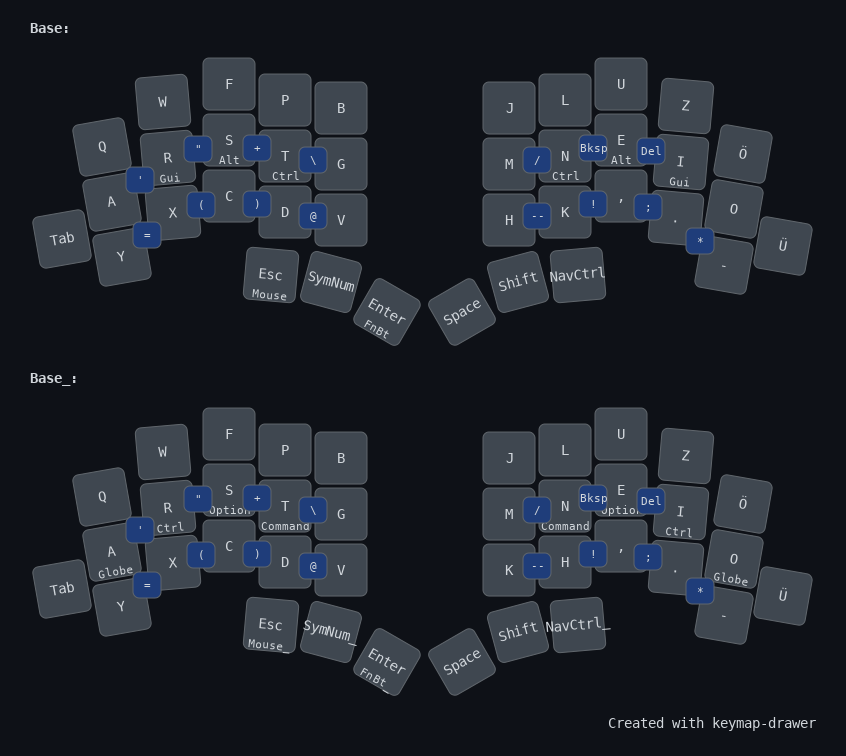
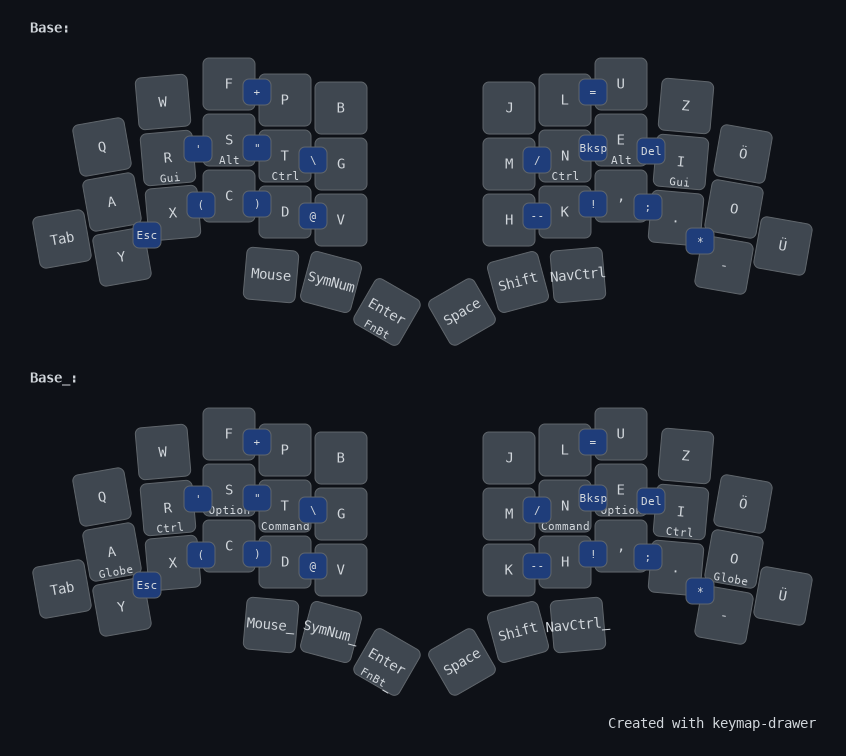
Updated docs

diff --git a/readme.md b/readme.md
@@ -38,14 +38,15 @@ The base layer is Colemak-DH with a few changes / additions:
 - Ö, Ü and Tab added
 - Homerow mods, without Shift
 - Shift on right thumb, with tap-dance: double tap is CapsWord, triple tap is CapsLock
-- Esc and Enter are Tap-hold layer keys
-- SymNum and NavCtrl layers do not have tap-hold
+- Enter is a Tap-hold layer key
+- NavCtrl and Mouse layers are toggled by press and momentarily activated when held
 - Combos for most commonly used symbols:
-  - Left upper row: ', " and +
-  - Left lower row: =, (, ), @
-  - Right upper row: Backspace and Delete
-  - Right lower row: Em-dash, !, ; and *
-  - Middle row: \ and /
+  - Left upper row: +
+  - Left middle row: ', ", \
+  - Left lower row:  Esc, (, ), @
+  - Right upper row: =
+  - Right middle row: /, Backspace, Delete
+  - Right lower row: Em-dash, !, ;, *
 
 ### Symbols-Numbers Layer
 
@@ -65,7 +66,7 @@ This layer is for accents, numbers and symbols not on the base layer
 
 This layer is for navigation and controls.
 
-- The layer can be locked or unlocked by pressing the opposite outer thumb key
+- The layer can be unlocked by pressing the opposite outer thumb key
 - Arrow keys and Home/End PgUp/PgDn on right hand for one-handed navigation
 - Mods are on the left side
 - Shift on opposite side
@@ -90,7 +91,7 @@ This layer is for numbers and F-keys.
 
 This layer is for mouse emulation and macros.
 
-- Can be locked or unlocked by opposite outer thumb key
+- Can be unlocked by opposite outer thumb key
 - Mouse pointer and scroll control
 - Left and Right Click on thumb keys
 - Mods (including Shift) on the right side bottom row
